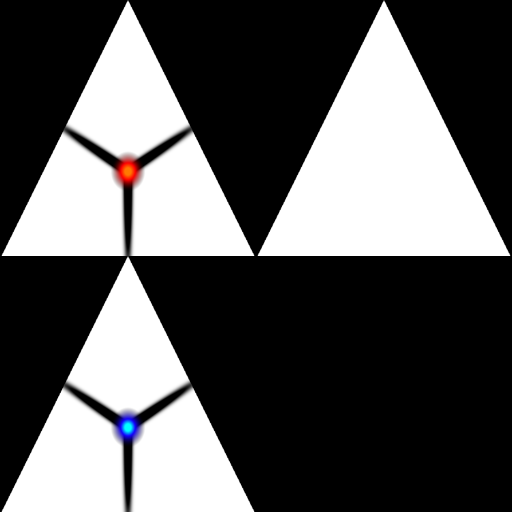
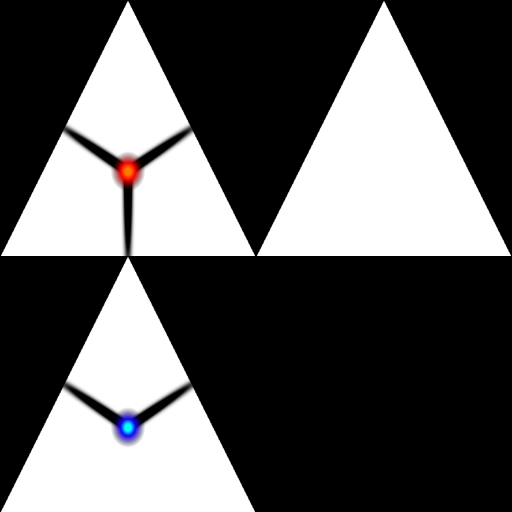
Updated to version 0.0.3 since tectonics generation is fully functional!

diff --git a/src/tectonics/tectonicLOD.ts b/src/tectonics/tectonicLOD.ts
@@ -1,5 +1,5 @@
 
-import { Point, Edge, Face, DrawType } from '../geometry/primitives';
+import { Point, Edge, Face } from '../geometry/primitives';
 import { SphereLOD } from '../geometry/sphereLOD';
 
 // allow for seeded rng
@@ -17,18 +17,68 @@ class FaultLink {
 
   // update the DrawType on this.location
   updateDrawType(): void {
-    // set drawtype based on number of connections
+    // find the edge indices on locations of this link's connections
+    let topUV;
+    let leftUV;
+    let rightUV;
+
+    // set uvs based on number and orientation of connections
     switch(this.connections.size) {
-      case 3:
-	this.location.drawType = DrawType.DebugNode;
+      case 3: // use the 'node' uvs
+	topUV = { u: 0.25, v: 1 };
+	leftUV = { u: 0, v: 0.5 };
+	rightUV = { u: 0.5, v: 0.5 };
+	this.location.debugUVs = [topUV.u, topUV.v, leftUV.u, leftUV.v, rightUV.u, rightUV.v];
 	break;
-      case 2:
-	this.location.drawType = DrawType.DebugLink;
+      case 2: // use the 'link' uvs
+	topUV = { u: 0.25, v: 0.5 };
+	leftUV = { u: 0, v: 0 };
+	rightUV = { u: 0.5, v: 0 };
+	// find which point index is shared between the edges crossed by the two connections
+	let edges = Array.from([...this.connections], (link) => {
+	  return this.getEdgeAcrossConnectionTo(link);
+	});
+	let sharedPointIndex;
+	if (edges.length == 2) {
+	  sharedPointIndex = this.location.points.indexOf(edges[0].getSharedPoint(edges[1]));
+	} else {
+	  // this should not happen
+	  console.log("Error: Some connection must not have an edge, unable to set debug UV");
+	  return;
+	}
+
+	// this really should never happen
+	if (sharedPointIndex == undefined) {
+	  console.log("Error: point shared by connections does not exist or is not on the FaultLink's face ...");
+	  console.log("... unable to set debug UVs");
+	}
+
+	// rotate the UVs so that topUV is at the sharedPointIndex
+	let swapUV;
+	switch (sharedPointIndex) {
+	  case 0: // no need to rotate
+	    break;
+	  case 1: // rotate so that topUV is at leftUV
+	    swapUV = leftUV;
+	    leftUV = topUV;
+	    topUV = rightUV;
+	    rightUV = swapUV;
+	    break;
+	  case 2: // rotate so that topUV is at rightUV
+	    swapUV = rightUV;
+	    rightUV = topUV;
+	    topUV = leftUV;
+	    leftUV = swapUV;
+	    break;
+	  default: // this should also never happen
+	    console.log("Somehow the sharedPointIndex is > 2. what.");
+	}
+
+	// set uvs to the proper rotated uvs
+	this.location.debugUVs = [topUV.u, topUV.v, leftUV.u, leftUV.v, rightUV.u, rightUV.v];
 	break;
-      default:
-	//console.log("Error: FaultLink detected with "+this.connections.size+" connections. Should be 3 or 2.");
-	this.location.drawType = DrawType.DebugLink; // temporarily bypassed for testing
-	//this.location.drawType = DrawType.DebugNormal;
+      default: // this should never happen
+	console.log("Error: FaultLink detected with "+this.connections.size+" connections. Should be 3 or 2.");
     }
   }
 
@@ -37,6 +87,16 @@ class FaultLink {
     this.connections.add(link);
     link.connections.add(this);
   }
+
+  // get the edge between FaultLinks
+  getEdgeAcrossConnectionTo(other: FaultLink): Edge {
+    for (let edge of this.location.edges) {
+      if (edge.getFaceAdjacentTo(this.location) == other.location) {
+	return edge;
+      }
+    }
+    return undefined;
+  }
 };
 
 class TectonicLOD extends SphereLOD {
@@ -44,7 +104,7 @@ class TectonicLOD extends SphereLOD {
   links: Map<Face, FaultLink>; // use faces as index since FaultLinks have a reference to Face already
   rng; // seeded random number generator
   unpickedFaces: Face[]; // all faces that don't have FaultLinks on them
-  linkedEdges: Edge[]; // aa edges between two FaultLinks
+  linkedEdges: Edge[]; // all between two FaultLinks
 
   constructor (newRadius: number, pointsRef: Point[], priorLOD?: TectonicLOD) {
     super(newRadius, pointsRef, priorLOD);
@@ -76,9 +136,12 @@ class TectonicLOD extends SphereLOD {
       // create new FaultLinks at that edge
       let newLinks = new Array<FaultLink>();
       targetEdge.faces.forEach( (face) => {
-	let newLink = new FaultLink(face);
+	// if link already exists, just link to it rather than creating a new one
+	let existingLink = this.links.get(face);
+	let newLink = existingLink ? existingLink : new FaultLink(face);
 	newLinks.push(newLink);
-	this.links.set(face, newLink);
+	// add it to the links map if it we created a new link
+	if (existingLink == undefined) this.links.set(face, newLink);
 	// remove the face from unpicked faces
 	this.unpickedFaces.filter(unpickedFace => unpickedFace !== face);
       });
@@ -109,13 +172,12 @@ class TectonicLOD extends SphereLOD {
 	for (let index of linkFaceIndices) {
 	  this._connectLinks(this.links.get(superFace.subFaces[index]), centerLink);
 	}
-      } else {
-	console.log("Error, each face with a link should have 2 or 3 connections, this on seems to have "+linkFaceIndices.length);
       }
+      // if there is only one subface with links, it must already be connected off-face
+      // and no new link creation is required
     });
 
-    // update all links
-    this.links.forEach(link => link.updateDrawType());
+    this._updateAllLinks();
   }
 
   // called if no priorLOD is passed to the constructor
@@ -165,19 +227,22 @@ class TectonicLOD extends SphereLOD {
     // iterate through all links and ensure they all have at least 2 connections
     this._expandAllLinks();
 
-    // update all links
-    this.links.forEach(link => link.updateDrawType());
+    this._updateAllLinks();
   }
 
   protected _connectLinks(link0: FaultLink, link1: FaultLink): void {
     // connect the links
     link0.linkTo(link1);
+    // find the edge between them
+    let edgeBetween = link0.getEdgeAcrossConnectionTo(link1);
     // add the edge between them to linkedEdges
-    link0.location.edges.forEach( (edge) => {
-      if (edge.getFaceAdjacentTo(link0.location) == link1.location) {
-	this.linkedEdges.push(edge);
-      }
-    });
+    if (edgeBetween) this.linkedEdges.push(edgeBetween);
+    else console.log("Error, tried to connect two links that don't share an edge");
+  }
+
+  // after links and mesh have been created, update the draw data on the faces appropriately
+  protected _updateAllLinks(): void {
+    this.links.forEach(link => link.updateDrawType());
   }
 
   // iterate through all links and ensure they all have at least 2 connections

diff --git a/src/geometry/primitives.ts b/src/geometry/primitives.ts
@@ -47,6 +47,15 @@ class Edge {
     return (face == this.faces[0]) ? this.faces[1] : this.faces[0];
   }
 
+  // return the point that this edge shares with other,
+  // else return undefined
+  getSharedPoint(other: Edge): Point {
+    let sharedPoints = this.points.filter( (point) => {
+      return (other.points.indexOf(point) != -1);
+    });
+    return sharedPoints[0];
+  }
+
   // create an edge from points in the master point array by index
   static createEdge(pointIndex: number[], points: Point[]): Edge {
     let pointArray = [
@@ -57,28 +66,23 @@ class Edge {
   }
 };
 
-// define drawtypes for debugdraw
-enum DrawType {
-  DebugNormal,
-    DebugLink,
-    DebugNode,
-}
-
 class Face {
   // index references to defining points in master points array
   // and edges in LOD edge array
   points: Point[];
   edges: Edge[];
-
-  // drawtype for debugdraw
-  drawType: DrawType;
+  debugUVs: number[];
 
   // references to keep track of following subdivision
   subFaces: Face[];
   constructor(newPoints: Point[]) {
     this.points = newPoints;
     this.edges = new Array<Edge>();
-    this.drawType = DrawType.DebugNormal;
+    // set 'normal' uvs as the default
+    let topUV = { u: 0.75, v: 1 };
+    let leftUV = { u: 0.5, v: 0.5 };
+    let rightUV = { u: 1, v: 0.5 };
+    this.debugUVs = [topUV.u, topUV.v, leftUV.u, leftUV.v, rightUV.u, rightUV.v];
   }
 
   // get all faces adjacent to this one
@@ -92,24 +96,7 @@ class Face {
 
   // returns UV coordinates for debugdraw
   getDebugUVs(): number[] {
-    let topUV;
-    let leftUV;
-    let rightUV;
-    if (this.drawType == DrawType.DebugNode) {
-	topUV = { u: 0.25, v: 1 };
-	leftUV = { u: 0, v: 0.5 };
-	rightUV = { u: 0.5, v: 0.5 };
-    } else if (this.drawType == DrawType.DebugLink) {
-	topUV = { u: 0.25, v: 0.5 };
-	leftUV = { u: 0, v: 0 };
-	rightUV = { u: 0.5, v: 0 };
-    } else {
-	topUV = { u: 0.75, v: 1 };
-	leftUV = { u: 0.5, v: 0.5 };
-	rightUV = { u: 1, v: 0.5 };
-    } 
-    let UVArray = [topUV.u, topUV.v, leftUV.u, leftUV.v, rightUV.u, rightUV.v];
-    return UVArray;
+    return this.debugUVs;
   }
 
   getEdgesByPoints(): {edge01: Edge, edge12: Edge, edge20:Edge} {
@@ -157,4 +144,4 @@ class Face {
   }
 };
 
-export { Point, Face, Edge, DrawType };
+export { Point, Face, Edge };

diff --git a/src/geometry/icosahedron.ts b/src/geometry/icosahedron.ts
@@ -37,7 +37,7 @@ class Icosahedron {
       // add points 6 through 10
       points[6+i] = new Point(
 	topRingRadius*Math.cos(longitudeAngle*(i*2-1)), 
-	topRingRadius*Math.sin(longitudeAngle*(i*2-1)), 
+	topRingRadius*Math.sin(longitudeAngle*(i*2-1)),
 	-topRingHeight);
     }
 
